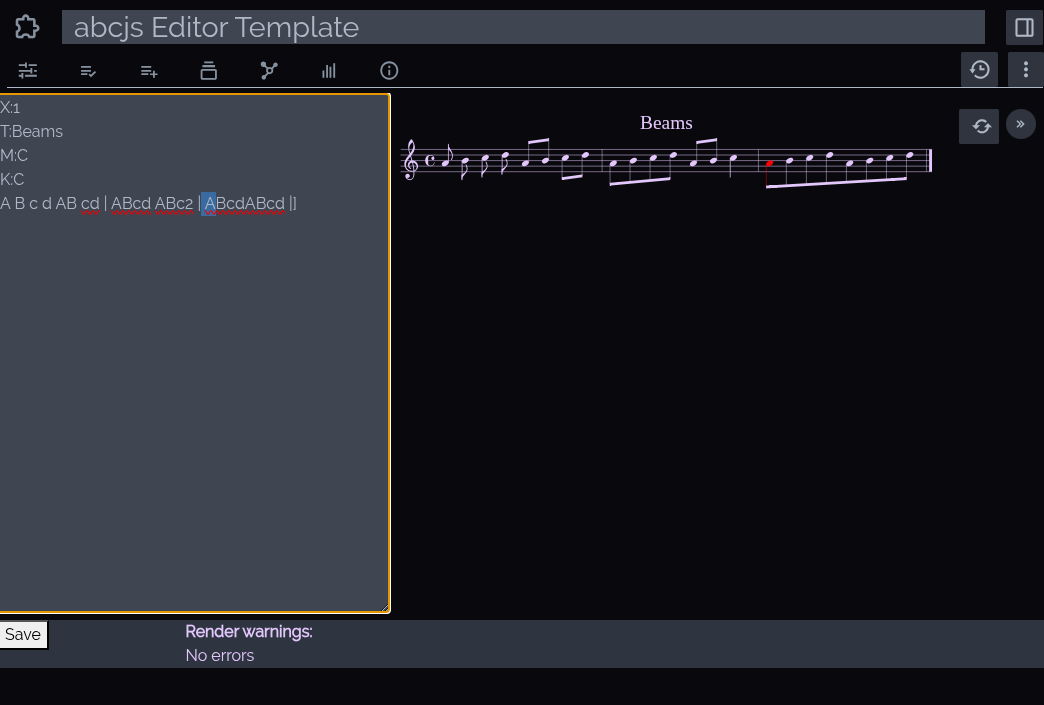
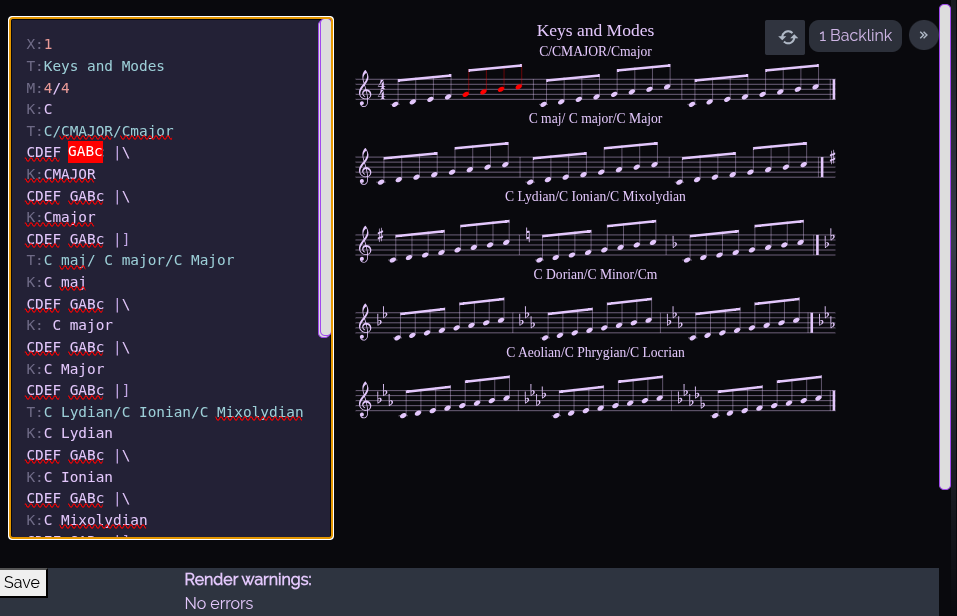
Edit README.md for highlightjs-editor integration

diff --git a/README.md b/README.md
@@ -17,6 +17,8 @@ Uses ```abcjs.Editor``` as per [abcjs docs](https://docs.abcjs.net/interactive/i
 
 My js code for the live editor was based on [tje](https://github.com/sottey/tje), mainly because of loading and saving using Trilium api.
 
+Highlightjs integration using ['fake highlighting'](https://codersblock.com/blog/highlight-text-inside-a-textarea/), [highlightjs](https://highlightjs.org/), and [highlightjs-abc](https://github.com/nocpiun/highlightjs-abc).
+
 ![live_editor_example.png](./img/live_editor_example.png "live_editor_example.png")
 *Live editor page showing note selection in text area & render*
 